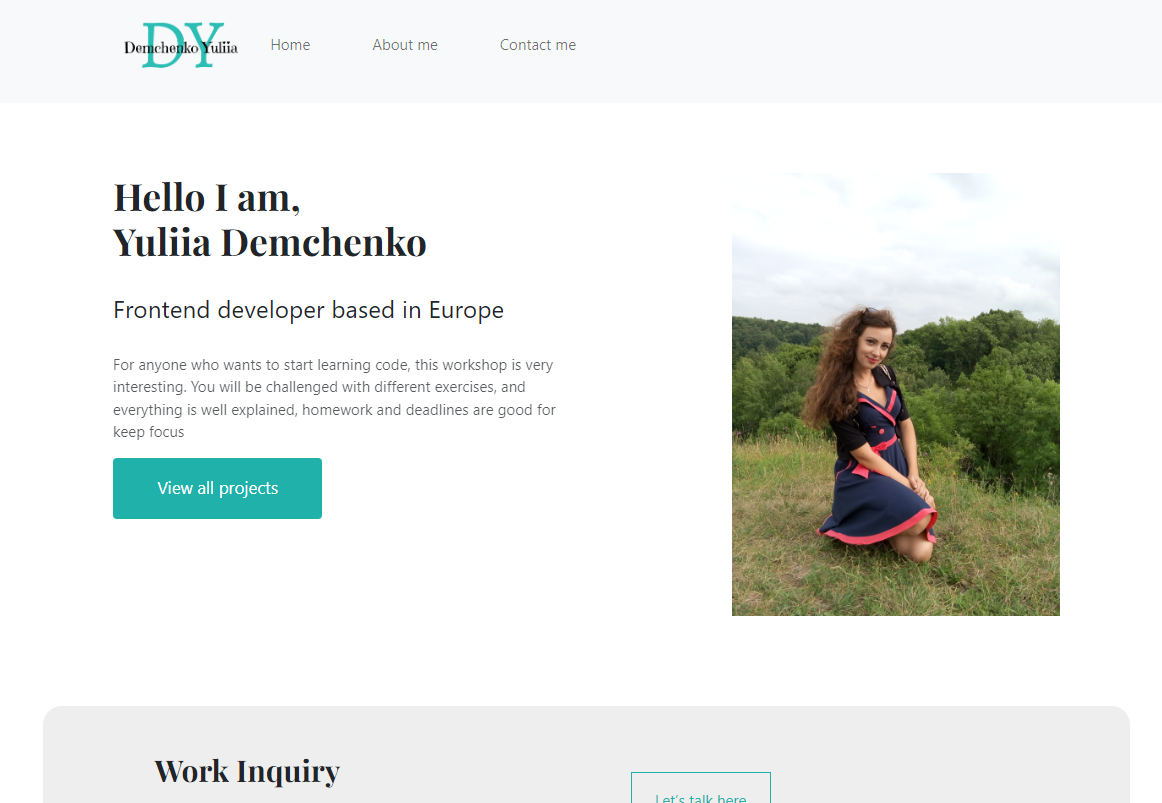
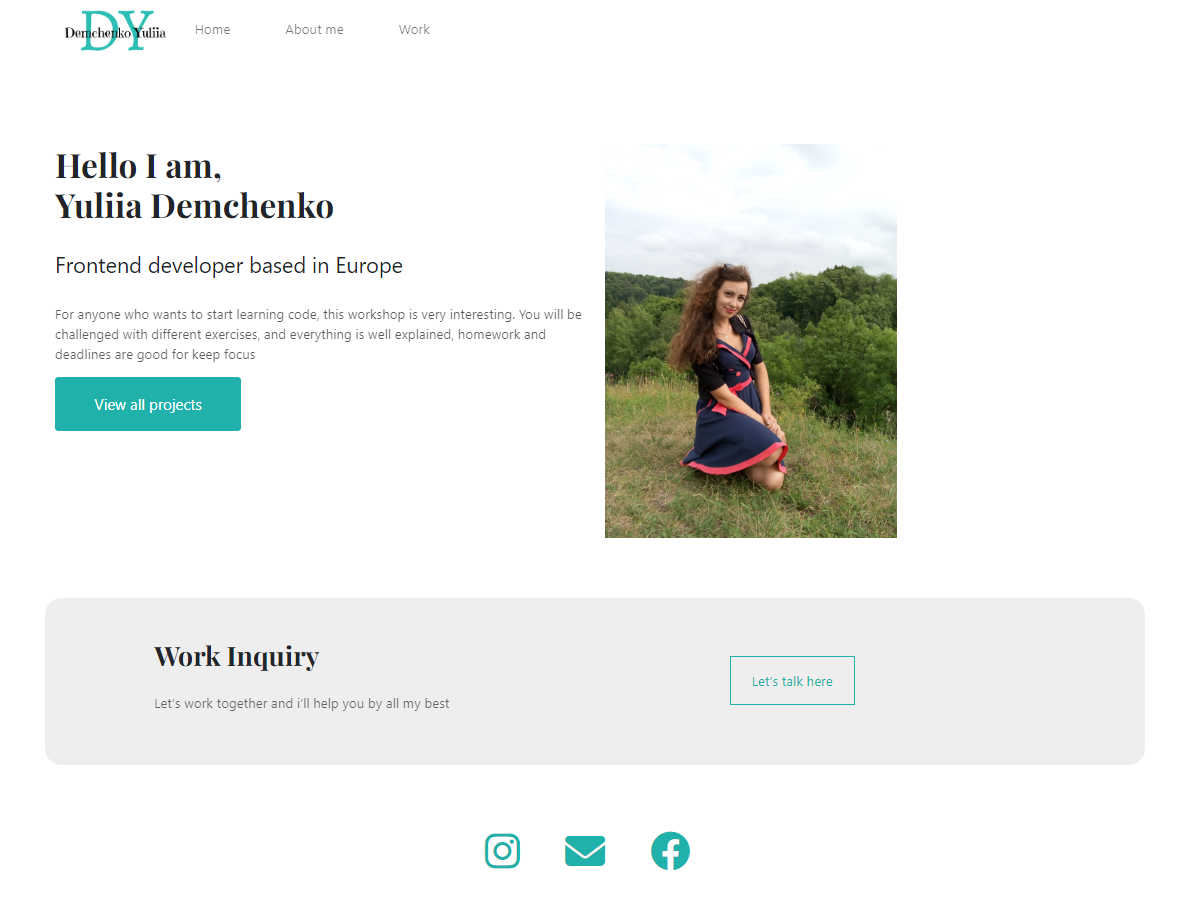
Add a new page Work, and change a foto

diff --git a/work.html b/work.html
@@ -3,14 +3,7 @@
   <head>
     <meta charset="UTF-8" />
     <meta http-equiv="X-UA-Compatible" content="IE=edge" />
-    <meta
-      name="viewport"
-      content="width=
-    , initial-scale=1.0"
-    />
-    <meta name="description" content="Challenge bootstrap" />
-    <link rel="preconnect" href="https://fonts.googleapis.com" />
-    <link rel="preconnect" href="https://fonts.gstatic.com" crossorigin />
+    <meta name="viewport" content="width=device-width, initial-scale=1.0" />
     <link
       href="https://fonts.googleapis.com/css2?family=Playfair+Display:wght@700&family=Poppins&display=swap"
       rel="stylesheet"
@@ -42,17 +35,15 @@
       integrity="sha384-OERcA2EqjJCMA+/3y+gxIOqMEjwtxJY7qPCqsdltbNJuaOe923+mo//f6V8Qbsw3"
       crossorigin="anonymous"
     ></script>
-
-    <title>Portfolio of Yuliia</title>
+    <title>Document</title>
   </head>
-  <body id="main-page">
-    <!-- ---------------Navbar----------------- -->
+  <body id="work">
     <nav
       class="navbar navbar-expand-lg navbar-light fixed-top bg-transparent text-dark"
     >
       <div class="container">
         <a class="navbar-brand" href="index.html"
-          ><img class="image-logo" src="./img/logo.png" alt="logo"
+          ><img class="image-logo" src="./img/logo.png" alt="logo width"
         /></a>
         <button
           class="navbar-toggler"
@@ -88,80 +79,67 @@
         </div>
       </div>
     </nav>
-    <div class="header">
-      <p class="greetings">🖐 Hello I am</p>
-      <h1 class="name-presentation">Yuliia Demchenko</h1>
-      <p class="post">Frontend Developer, based in Europe.</p>
-      <a href="index.html#contact"> Get Started</a>
-    </div>
-    <p class="head-projects">
-      Featured Project which my best projects be choice to show
-    </p>
-    <div class="projects container" id="projects">
-      <!-- --------Sport Project--------- -->
-      <div class="row">
-        <div class="col d-none d-lg-block">
-          <img src="./img/sport-website.png" alt="sport" class="img-fluid" />
-        </div>
-        <div class="col project-description">
-          <h2>Sport Website</h2>
-          <p>
-            Far far away, behind the word mountains, far from the countries
-            Vokalia and Consonantia, there live the blind texts. Separated they
-            live in Bookmarksgrove right at the coast of the Semantics, a large
-            language ocean. A small river named Duden flows by
-          </p>
-          <a href="#" class="btn">View detail project</a>
-        </div>
+    <h1 class="text-center">Take a look at what I've been working on!</h1>
+    <div
+      id="carouselExampleDark"
+      class="carousel carousel-dark slide"
+      data-bs-ride="carousel"
+    >
+      <div class="carousel-indicators">
+        <button
+          type="button"
+          data-bs-target="#carouselExampleDark"
+          data-bs-slide-to="0"
+          class="active"
+          aria-current="true"
+          aria-label="Slide 1"
+        ></button>
+        <button
+          type="button"
+          data-bs-target="#carouselExampleDark"
+          data-bs-slide-to="1"
+          aria-label="Slide 2"
+        ></button>
+        <button
+          type="button"
+          data-bs-target="#carouselExampleDark"
+          data-bs-slide-to="2"
+          aria-label="Slide 3"
+        ></button>
       </div>
-
-      <!-- --------Weather project------- -->
-
-      <div class="row">
-        <div class="col project-description">
-          <h2>Weather App</h2>
-          <p>
-            Far far away, behind the word mountains, far from the countries
-            Vokalia and Consonantia, there live the blind texts. Separated they
-            live in Bookmarksgrove right at the coast of the Semantics, a large
-            language ocean. A small river named Duden flows by
-          </p>
-          <a
-            href="https://tourmaline-eclair-e53fcb.netlify.app/"
-            target="_blank"
-            class="btn"
-            >View detail project</a
-          >
+      <div class="carousel-inner">
+        <div class="carousel-item active" data-bs-interval="10000">
+          <img src="./img/weather-app.png" class="d-block w-100" alt="..." />
         </div>
-        <div class="col d-none d-lg-block">
-          <img src="./img/weather-app.png" alt="weather" class="img-fluid" />
-        </div>
-      </div>
-
-      <!-- --------------Portfolio -------- -->
-      <div class="row">
-        <div class="col d-none d-lg-block">
+        <div class="carousel-item" data-bs-interval="2000">
           <img
             src="./img/Portfolio-website.png"
-            alt="portfolio"
-            class="img-fluid"
+            class="d-block w-100"
+            alt="..."
           />
         </div>
-        <div class="col project-description">
-          <h2>Portfolio</h2>
-          <p>
-            Far far away, behind the word mountains, far from the countries
-            Vokalia and Consonantia, there live the blind texts. Separated they
-            live in Bookmarksgrove right at the coast of the Semantics, a large
-            language ocean. A small river named Duden flows by
-          </p>
-          <a
-            href="https://papaya-alfajores-85caa1.netlify.app/index.html"
-            class="btn"
-            >View detail project</a
-          >
+        <div class="carousel-item">
+          <img src="./img/sport-website.png" class="d-block w-100" alt="..." />
         </div>
       </div>
+      <button
+        class="carousel-control-prev"
+        type="button"
+        data-bs-target="#carouselExampleDark"
+        data-bs-slide="prev"
+      >
+        <span class="carousel-control-prev-icon" aria-hidden="true"></span>
+        <span class="visually-hidden">Previous</span>
+      </button>
+      <button
+        class="carousel-control-next"
+        type="button"
+        data-bs-target="#carouselExampleDark"
+        data-bs-slide="next"
+      >
+        <span class="carousel-control-next-icon" aria-hidden="true"></span>
+        <span class="visually-hidden">Next</span>
+      </button>
     </div>
     <footer id="contact">
       <ul>

diff --git a/about.html b/about.html
@@ -68,9 +68,7 @@
               >
             </li>
             <li class="nav-item">
-              <a class="nav-link" href="about.html#contact" title="contact page"
-                >Contact me</a
-              >
+              <a class="nav-link" href="work.html" title="work page">Work</a>
             </li>
           </ul>
         </div>

diff --git a/styles/main.css b/styles/main.css
@@ -153,6 +153,18 @@ li {
 li a {
   color: var(--main-color-);
 }
+#work h1 {
+  margin-top: 130px;
+}
+.carousel {
+  width: 800px;
+  margin: 0 auto;
+  margin-top: 50px;
+}
+.carousel img {
+  border-radius: 20px;
+}
+
 @media (max-width: 960px) {
   .project-description {
     padding: 0;
